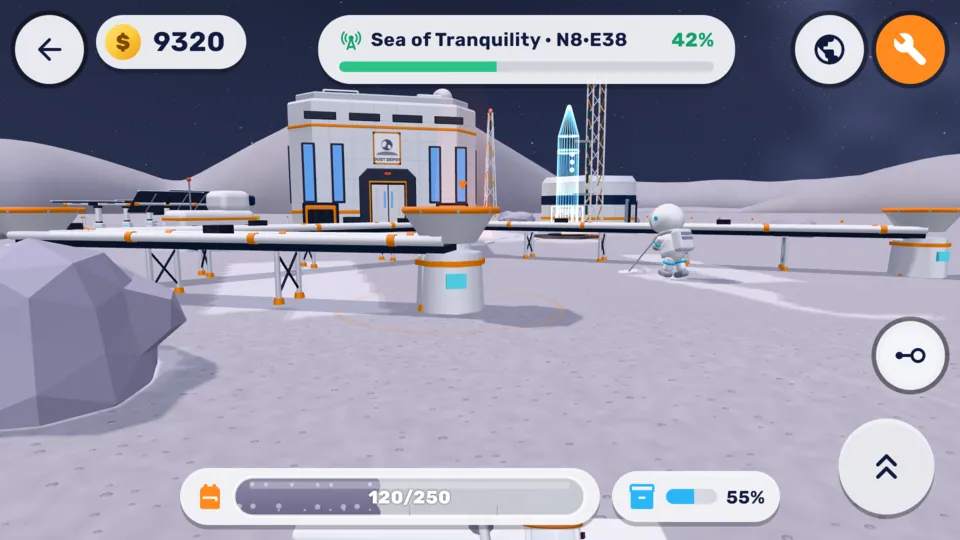
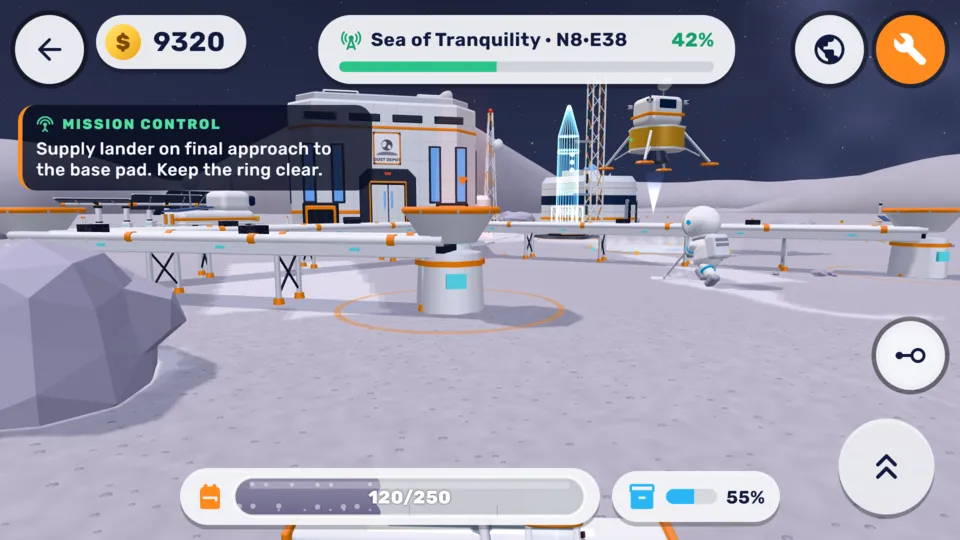
content: Lunar Dustup 1.7, the lunar-mission update

diff --git a/src/content.js b/src/content.js
@@ -84,7 +84,7 @@ export const apps = [
     ads: true,
     tagline: "Sweep the whole Moon: 288 seamless sectors, over both poles, with a crew that helps.",
     description:
-      "A stylized 3D first-person cleaning game on a seamless Moon: 288 streamed sectors in 7 real regions, all the way round and over both poles with no loading screen. Sweep with tools that sway and push, watch the canister's LED gauge fill, pour the dust into cargo pods, and let your crew walk off to the next patch of dust on their own. Build conveyor belts, mine helium-3 and ice, launch dust rockets and track it all on an interactive 3D globe. Online rooms let up to 16 players clean together.",
+      "A stylized 3D first-person cleaning game on a seamless Moon: 288 streamed sectors in 7 real regions, all the way round and over both poles with no loading screen. It plays like a lunar mission: a supply lander touches down at your base, Mission Control talks to you on the radio, and old science stations, flags, laser reflectors and crashed probes wait out in the dust. Sweep with tools that sway and push, watch the canister's LED gauge fill, pour the dust into cargo pods, and let your crew walk off to the next patch of dust on their own. Build conveyor belts, mine helium-3 and ice, launch dust rockets and track it all on an interactive 3D globe. Online rooms let up to 16 players clean together.",
     facts: ["3D first person, rendered with three.js inside the Flutter app", "Open world of 288 streamed sectors with seamless pole crossings (mirrored far-side ghosts)", "Co-op rooms for up to 16 players; 3 languages, no account"],
     stack: ["Flutter", "three.js", "WebGL", "Firebase Realtime Database"],
     play: play("com.elpages.lunar_dustup"),
